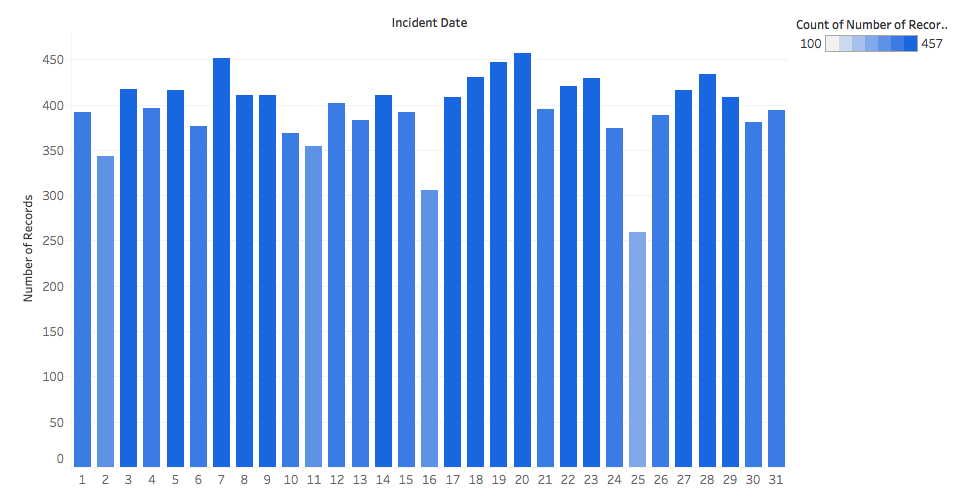
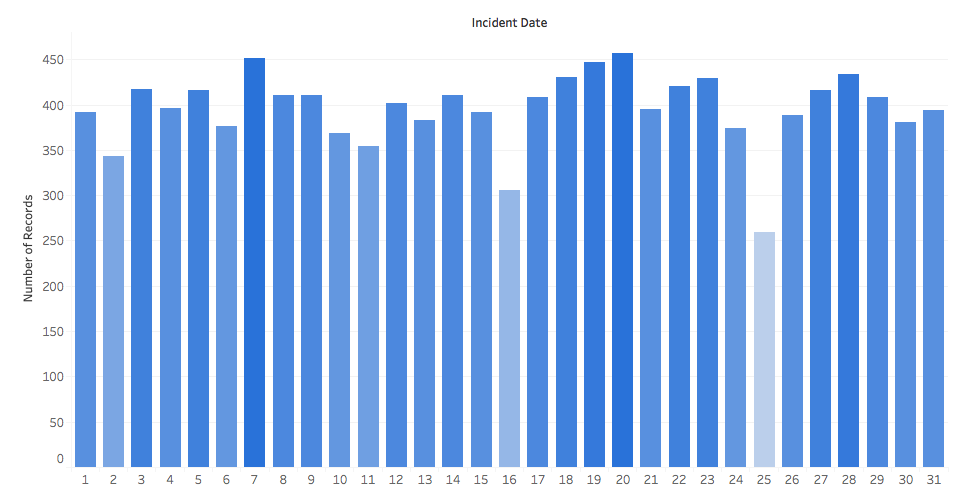
Adding updated tableau.

diff --git a/index.html b/index.html
@@ -104,7 +104,19 @@
   <section class="section">
     <div class="container content">
       <!-- todo: modify as necessary (or move visualizations to separate pages) -->
-      <h2>Visualization 1</h2>
+      <h2><u>Visualization 1</u></h2>
+
+      <div class="tableau-photo">
+        <h4 class="tableau-header pic-head"><strong>Tableau - Visualization 1</strong></h1>
+        <p class="tableau-header">My Name: Neal Siegrist</p>
+        <p class="tableau-header">This visualization is representing the number of crimes that occured
+        on each day for December 2018. Christmas (Dec 25) stands out with the abnormal
+        amount of low crime. This visualization uses colors to amplify the intensity for the
+        larger data bars and shows lighter colors for lower data points.</p>
+        <img src="tableau-images/chart1.png">
+      </div>
+
+      <h4 class="tableau-header pic-head"><strong>D3 - Visualization 1</strong></h1>
 
       <svg class="chart1" width="100%" height="400" style="background-color: whitesmoke; border: 1px solid black;">
       </svg>

diff --git a/chart1.js b/chart1.js
@@ -61,7 +61,7 @@ var drawBarChart = function() {
 
       var color = d3.scaleLinear()
         .domain([259, 457])
-        .range(["rgb(173, 216, 230)", "rgb(70, 130, 180)"]);
+        .range(["rgb(175, 185, 255)", "rgb(19, 100, 214)"]);
 
       let dayScale = d3.scaleBand()
           .domain(outputObj.days) // all letters (not using the count here)

diff --git a/styles/css-styles.css b/styles/css-styles.css
@@ -5,7 +5,7 @@
 .tableau-header {
   text-align: left;
   margin-right: 150px;
-  margin-left: 140px;
+  margin-left: 0px;
 }
 
 .pic-head {
